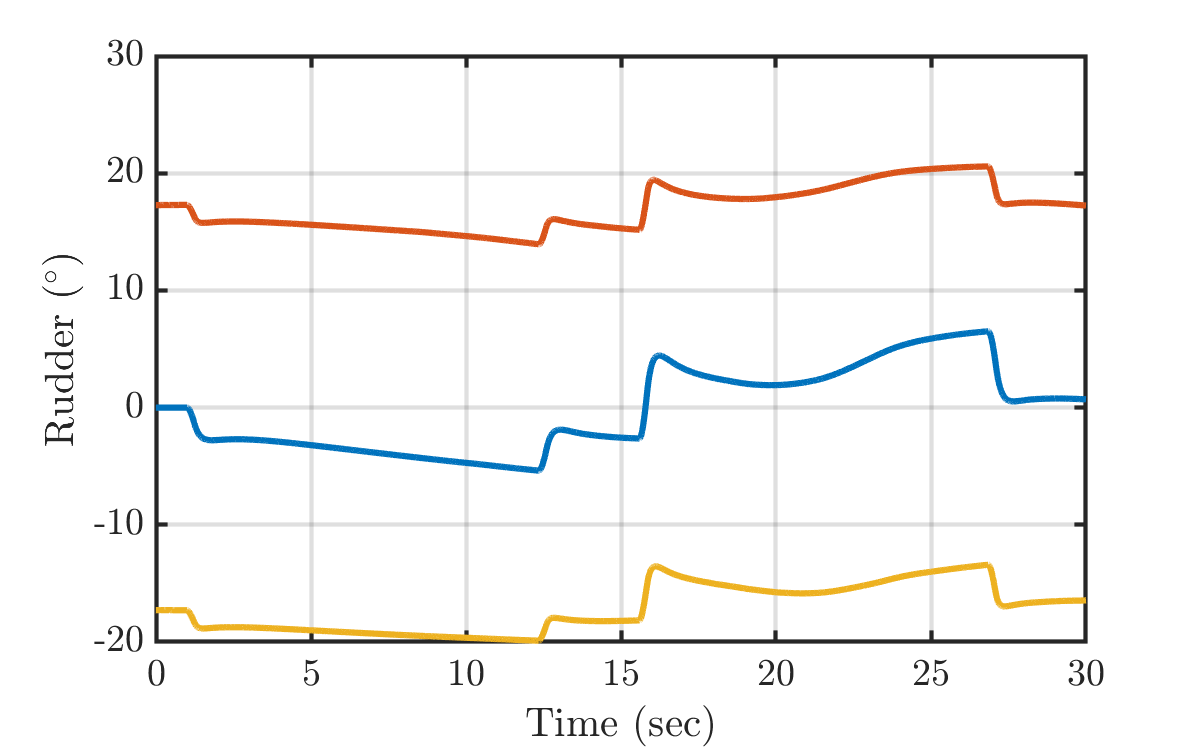
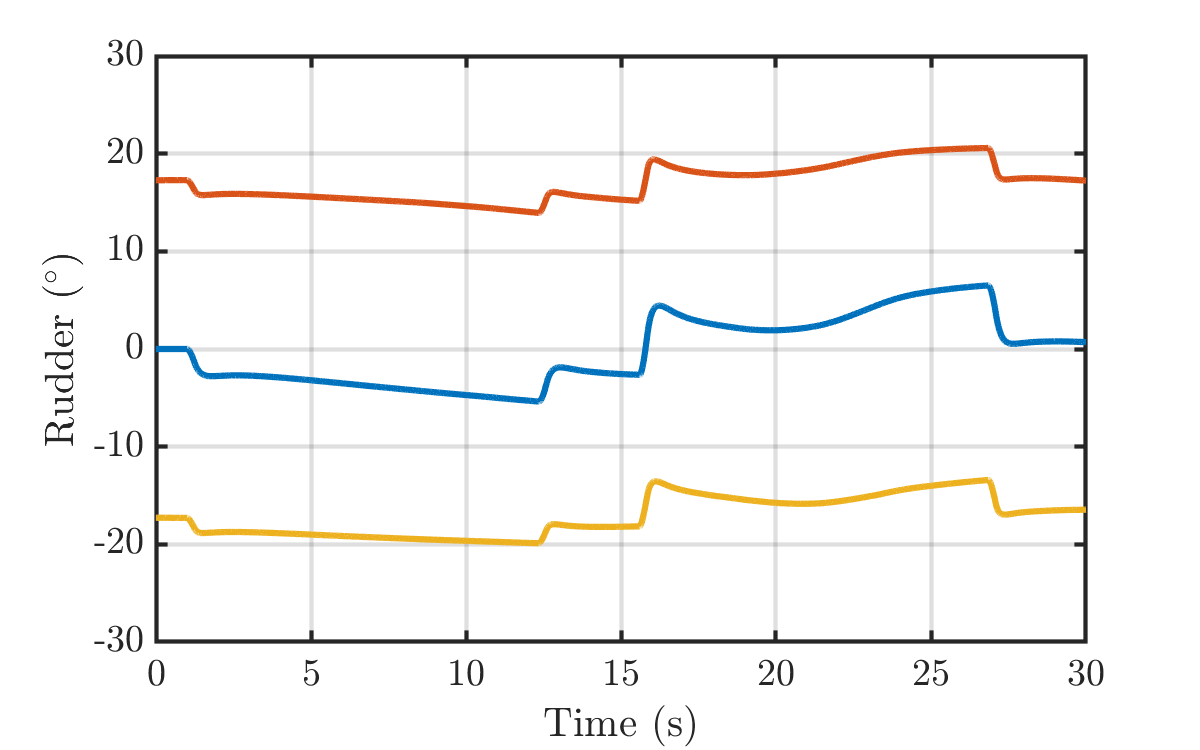
update cba plots

diff --git a/code/image_gen/cba/plot_cfr147d.m b/code/image_gen/cba/plot_cfr147d.m
@@ -23,7 +23,7 @@ setup_plots(plot_options);
 % Roll Angle
 figure(1); clf; hold on;
 plot(phi_rad_struct(1).time,phi_rad_struct(1).values*180/pi,'k');
-xlabel('Time (sec)');
+xlabel('Time (s)');
 ylabel('Roll Angle $(^\circ)$');
 grid on; box on;
 saveas(gcf,'images/cfr147d_roll_angle.png')
@@ -31,9 +31,9 @@ saveas(gcf,'images/cfr147d_roll_angle.png')
 % Roll Acceleration
 figure(2); clf; hold on; set_figure_size(gcf,8,5);
 plot(pdot_dps2_struct_CPR(1).time,pdot_dps2_struct_CPR(1).values,'k');
-xlabel('Time (sec)');
+xlabel('Time (s)');
 ylabel('Roll Acceleration $(^\circ/s^2)$');
-ylim([-8,8])
+ylim([-10,10])
 grid on; box on;
 saveas(gcf,'images/cfr147d_roll_acc.png')
 
@@ -42,7 +42,7 @@ figure(3); clf; set_figure_size(gcf,8,5);
 subplot(2,1,1); hold on;
 plot(surf_AIL_deg_struct(1).time-2,surf_AIL_deg_struct(1).values,'k');
 xlim([0 max(surf_AIL_deg_struct(1).time)-2]);
-xlabel('Time (sec)');
+xlabel('Time (s)');
 ylabel('L. Aileron $(^\circ)$');
 ylim([-10,10])
 grid on; box on;
@@ -51,7 +51,7 @@ subplot(2,1,2); hold on;
 plot(surf_AIR_deg_struct(1).time-2,surf_AIR_deg_struct(1).values,'k');
 xlim([0 max(surf_AIR_deg_struct(1).time)-2]);
 set(gca,'FontSize',fs);
-xlabel('Time (sec)');
+xlabel('Time (s)');
 ylabel('R. Aileron $(^\circ)$');
 ylim([-10,10])
 grid on; box on;
@@ -62,7 +62,7 @@ saveas(gcf,'images/cfr147d_ail_defl.png')
 figure(4); clf; hold on; 
 plot(rdot_dps2_struct_CPA(1).time-2,rdot_dps2_struct_CPA(1).values,'k');
 xlim([0 max(rdot_dps2_struct_CPA(1).time)-2]);
-xlabel('Time (sec)');
+xlabel('Time (s)');
 ylabel('Yaw Acceleration $(^\circ/s^2)$');
 grid on; box on;
 saveas(gcf,'images/cfr147d_yaw_acc.png')
@@ -72,7 +72,8 @@ figure(5); clf; hold on;
 % set(gcf,'Position',[589,456,755,420]); 
 plot(surf_RUD_deg_struct(1).time-2,surf_RUD_deg_struct(1).values,'k');
 xlim([0 max(surf_RUD_deg_struct(1).time)-2]);
-xlabel('Time (sec)');
+ylim([-10,10]);
+xlabel('Time (s)');
 ylabel('Rudder $(^\circ)$');
 grid on; box on;
 saveas(gcf,'images/cfr147d_rud_defl.png')
@@ -82,7 +83,7 @@ figure(6); clf; hold on;
 % set(gcf,'Position',[589,456,755,420]); 
 plot(qdot_dps2_struct_CPA(1).time-2,qdot_dps2_struct_CPA(1).values,'k');
 xlim([0 max(qdot_dps2_struct_CPA(1).time)-2]);
-xlabel('Time (sec)');
+xlabel('Time (s)');
 ylabel('Pitch Acceleration $(^\circ/s^2)$');
 grid on; box on;
 saveas(gcf,'images/cfr147d_pitch_acc.png')
@@ -92,7 +93,7 @@ figure(7); clf; hold on;
 % set(gcf,'Position',[589,456,755,420]); 
 plot(surf_ELV_deg_struct(1).time-2,surf_ELV_deg_struct(1).values,'k');
 xlim([0 max(surf_ELV_deg_struct(1).time)-2]);
-xlabel('Time (sec)');
+xlabel('Time (s)');
 ylabel('Elevator $(^\circ)$');
 grid on; box on;
 saveas(gcf,'images/cfr147d_elev_defl.png')
@@ -105,7 +106,8 @@ plot(pdot_dps2_struct_CPA(1).time-2,pdot_dps2_struct_CPA(1).values);
 plot(pdot_dps2_struct_CPA(2).time-2,pdot_dps2_struct_CPA(2).values);
 plot(pdot_dps2_struct_CPA(3).time-2,pdot_dps2_struct_CPA(3).values);
 xlim([0 max(pdot_dps2_struct_CPA(1).time)-2]);
-xlabel('Time (sec)');
+ylim([-10,10]);
+xlabel('Time (s)');
 ylabel('Roll Acceleration $(^\circ/s^2)$');
 legend('Normal','R. Engine Out','L. Engine Out','Location','best');
 grid on; box on;
@@ -117,7 +119,7 @@ plot(rdot_dps2_struct_CPA(1).time-2,rdot_dps2_struct_CPA(1).values);
 plot(rdot_dps2_struct_CPA(2).time-2,rdot_dps2_struct_CPA(2).values);
 plot(rdot_dps2_struct_CPA(3).time-2,rdot_dps2_struct_CPA(3).values);
 xlim([0 max(rdot_dps2_struct_CPA(1).time)-2]);
-xlabel('Time (sec)');
+xlabel('Time (s)');
 ylabel('Yaw Acceleration $(^\circ/s^2)$');
 grid on; box on;
 saveas(gcf,'images/eo_cfr147d_yaw_acc.png')
@@ -129,7 +131,7 @@ plot(qdot_dps2_struct_CPA(2).time-2,qdot_dps2_struct_CPA(2).values);
 plot(qdot_dps2_struct_CPA(3).time-2,qdot_dps2_struct_CPA(3).values);
 xlim([0 max(rdot_dps2_struct_CPA(1).time)-2]);
 set(gca,'FontSize',fs);
-xlabel('Time (sec)');
+xlabel('Time (s)');
 ylabel('Pitch Acceleration $(^\circ/s^2)$');
 grid on; box on;
 saveas(gcf,'images/eo_cfr147d_pitch_acc.png')
@@ -141,7 +143,8 @@ plot(surf_AIL_deg_struct(1).time-2,surf_AIL_deg_struct(1).values);
 plot(surf_AIL_deg_struct(2).time-2,surf_AIL_deg_struct(2).values);
 plot(surf_AIL_deg_struct(3).time-2,surf_AIL_deg_struct(3).values);
 xlim([0 max(surf_AIL_deg_struct(1).time)-2]);
-xlabel('Time (sec)');
+ylim([-15,15])
+xlabel('Time (s)');
 ylabel('L. Aileron $(^\circ)$');
 grid on; box on;
 % legend('Normal','R. Engine Out','L. Engine Out','Location','Best');
@@ -150,7 +153,8 @@ plot(surf_AIR_deg_struct(1).time-2,surf_AIR_deg_struct(1).values);
 plot(surf_AIR_deg_struct(2).time-2,surf_AIR_deg_struct(2).values);
 plot(surf_AIR_deg_struct(3).time-2,surf_AIR_deg_struct(3).values);
 xlim([0 max(surf_AIR_deg_struct(1).time)-2]);
-xlabel('Time (sec)');
+ylim([-15,15])
+xlabel('Time (s)');
 ylabel('R. Aileron $(^\circ)$');
 grid on; box on;
 saveas(gcf,'images/eo_cfr147d_ail_defl.png')
@@ -161,8 +165,9 @@ plot(surf_RUD_deg_struct(1).time-2,surf_RUD_deg_struct(1).values);
 plot(surf_RUD_deg_struct(2).time-2,surf_RUD_deg_struct(2).values);
 plot(surf_RUD_deg_struct(3).time-2,surf_RUD_deg_struct(3).values);
 xlim([0 max(surf_RUD_deg_struct(1).time)-2]);
+ylim([-30,30])
 set(gca,'FontSize',fs);
-xlabel('Time (sec)');
+xlabel('Time (s)');
 ylabel('Rudder $(^\circ)$');
 grid on; box on;
 saveas(gcf,'images/eo_cfr147d_rud_defl.png')
@@ -173,7 +178,7 @@ plot(surf_ELV_deg_struct(1).time-2,surf_ELV_deg_struct(1).values);
 plot(surf_ELV_deg_struct(2).time-2,surf_ELV_deg_struct(2).values);
 plot(surf_ELV_deg_struct(3).time-2,surf_ELV_deg_struct(3).values);
 xlim([0 max(surf_ELV_deg_struct(1).time)-2]);
-xlabel('Time (sec)');
+xlabel('Time (s)');
 ylabel('Elevator $(^\circ)$');
 grid on; box on;
 saveas(gcf,'images/eo_cfr147d_elev_defl.png')
@@ -183,11 +188,24 @@ load('./Stanford_CFR25_147d/WT_trajectory_results')
 figure(14); clf; hold on;
 % set(gcf,'Position',[589,456,755,420]);
 i=1;
-plot(CPR_traj_mean(4).normal.phi_rad.time,CPR_traj_mean(4).normal.phi_rad.values*180/pi,'k');
-plot(CPR_traj_MC(4).normal(i).phi_rad.time,CPR_traj_MC(4).normal(i).phi_rad.values*180/pi,'color','#8C1515');
-xlabel('Time (sec)');
+plot(CPR_traj_mean(4).rightout.phi_rad.time,CPR_traj_mean(4).rightout.phi_rad.values*180/pi,'k');
+c = get(gca,'colororder');
+plot(CPR_traj_MC(4).rightout(i).phi_rad.time,CPR_traj_MC(4).rightout(i).phi_rad.values*180/pi,'LineStyle','--','color',c(2,:));
+xlabel('Time (s)');
 ylabel('Roll Angle $(^\circ)$');
 legend('Target','Actual');
 grid on; box on;
-saveas(gcf,'images/cfr147d_roll_angle_mean.png')
+saveas(gcf,'images/reo_cfr147d_roll_angle_mean.png')
 
+figure(15); clf; hold on;
+% set(gcf,'Position',[589,456,755,420]);
+plot(CPR_traj_mean(4).rightout.pdot_dps2.time,CPR_traj_mean(4).rightout.pdot_dps2.values,'k');
+c = get(gca,'colororder');
+plot(CPA_traj_mean(4).rightout(i).pdot_dps2.time-2,CPA_traj_mean(4).rightout(i).pdot_dps2.values,'LineStyle','--','color',c(2,:));
+xlabel('Time (s)');
+ylabel('Roll Acceleration $(^\circ/s^2)$');
+xlim([0,30])
+ylim([-10 10])
+legend('Target','Actual','location','southwest');
+grid on; box on;
+saveas(gcf,'images/reo_cfr147d_roll_acc_mean.png')
